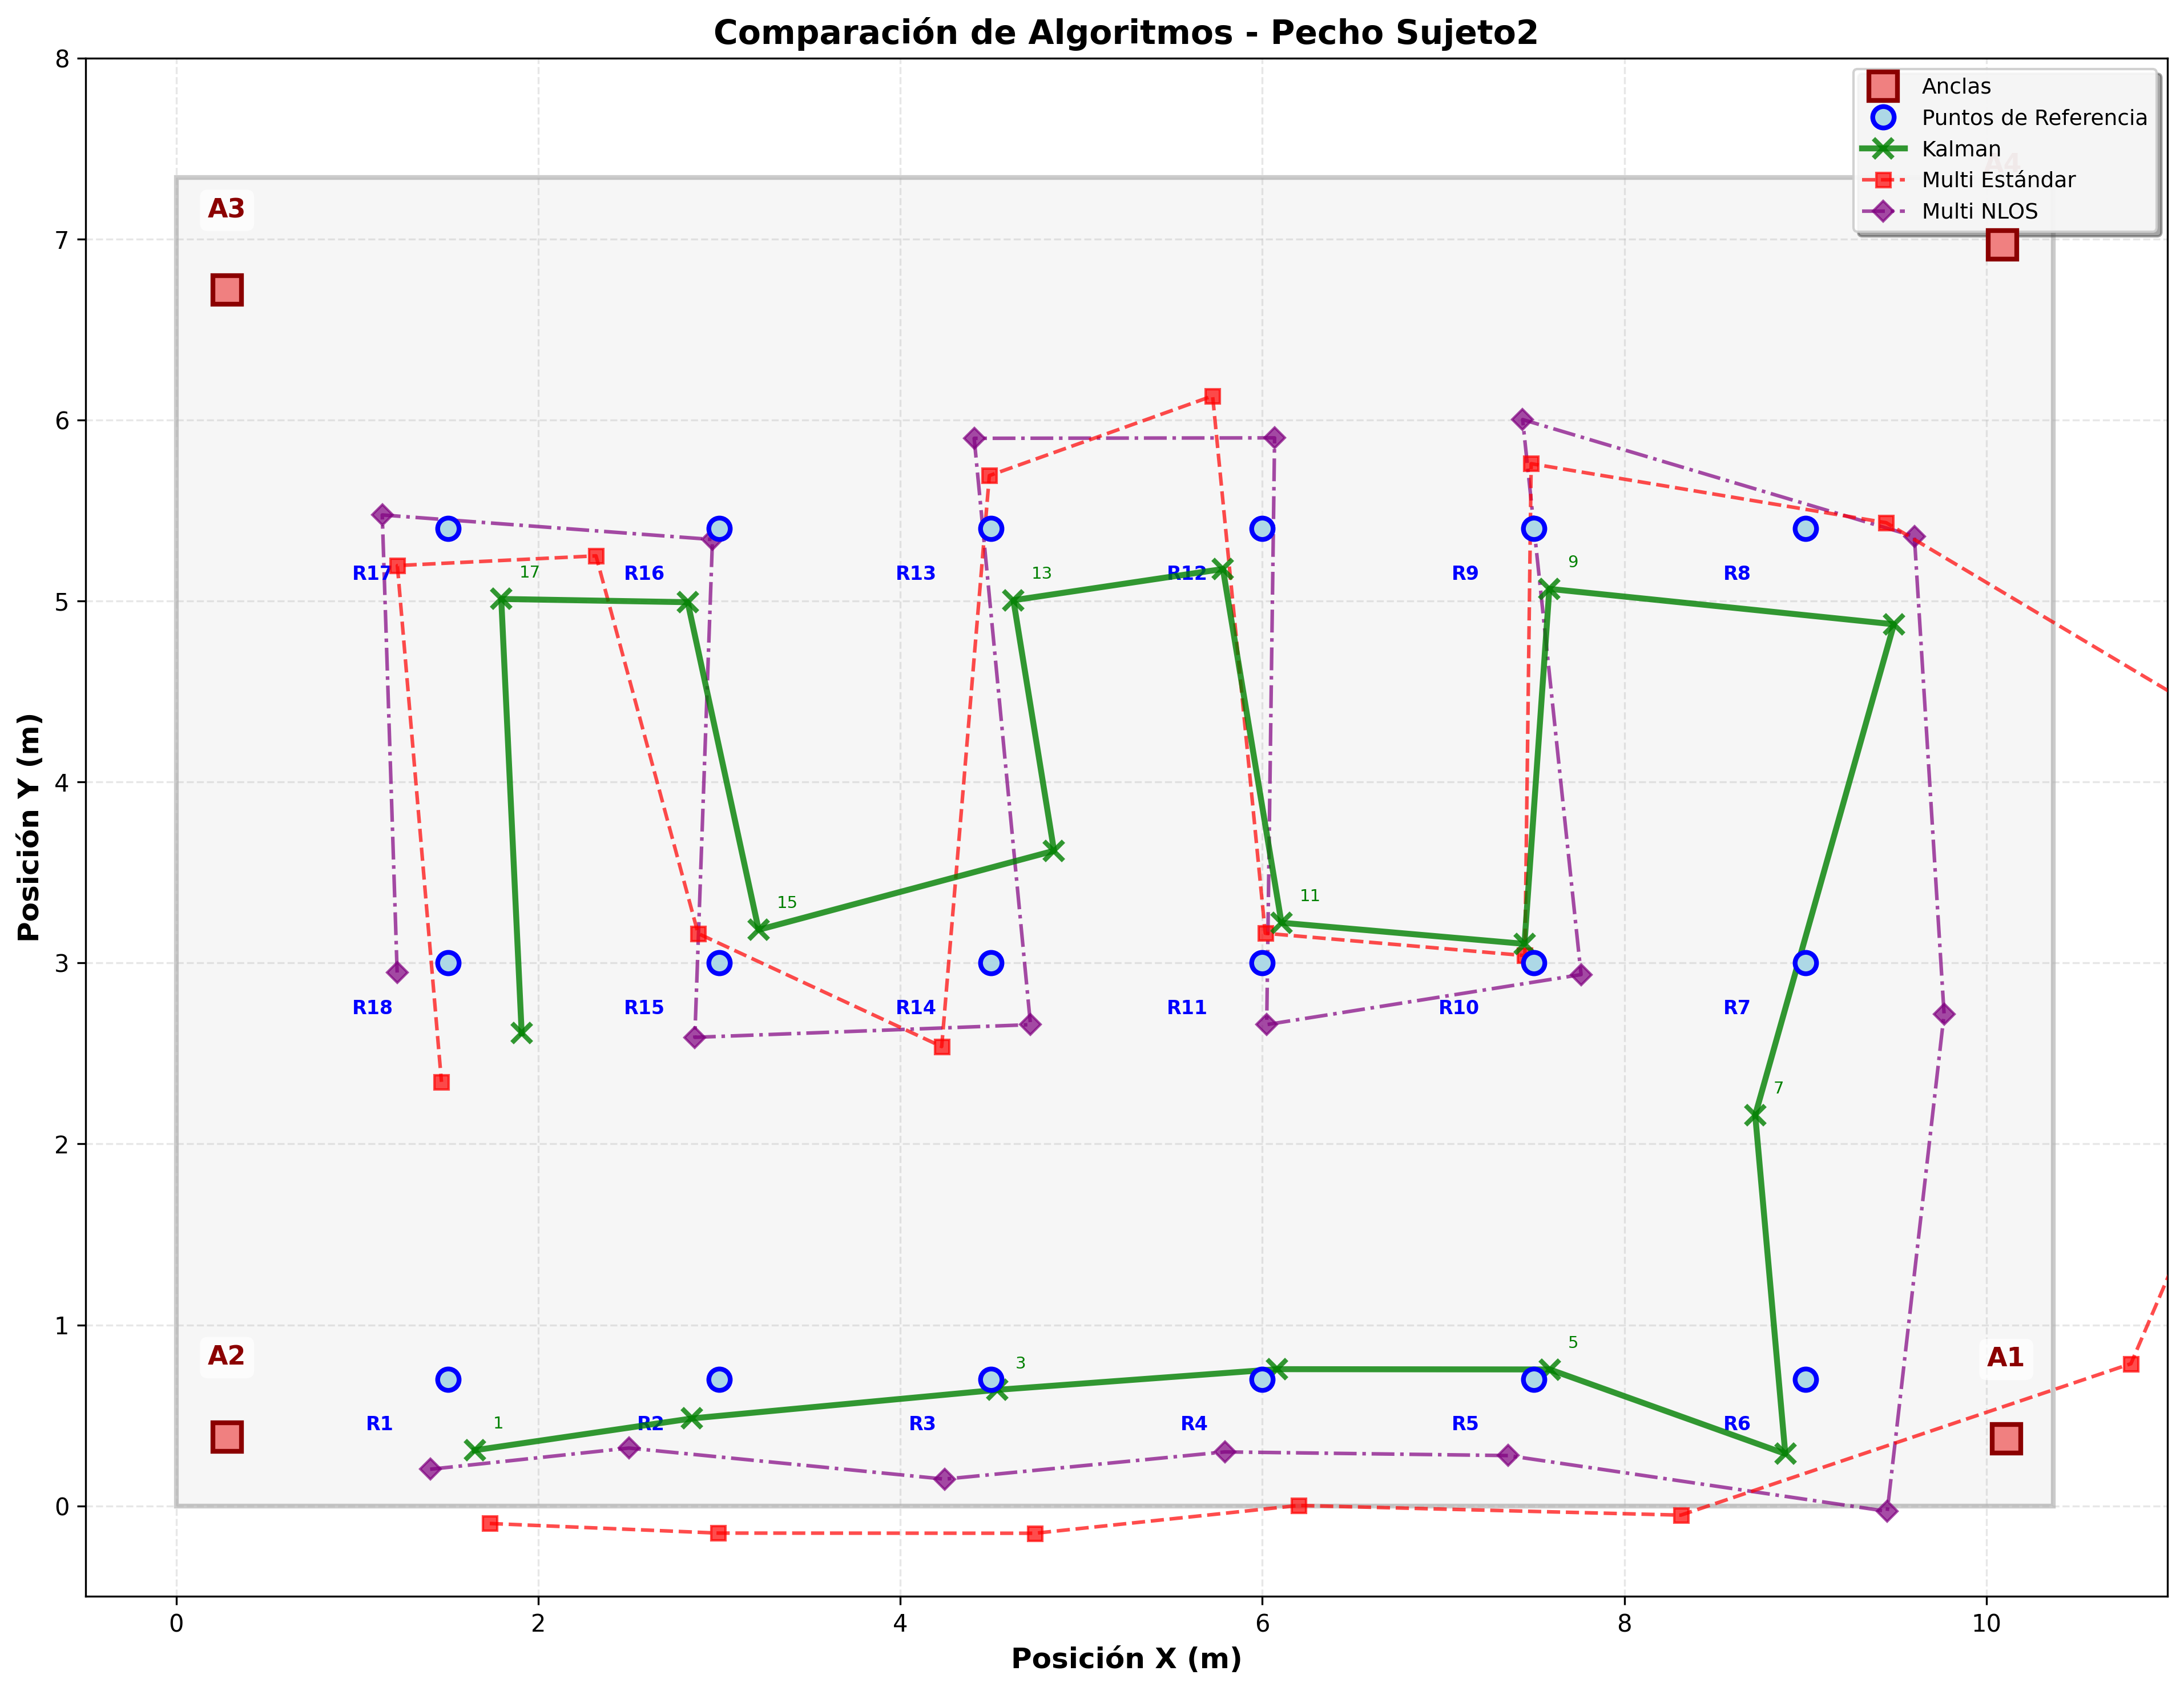
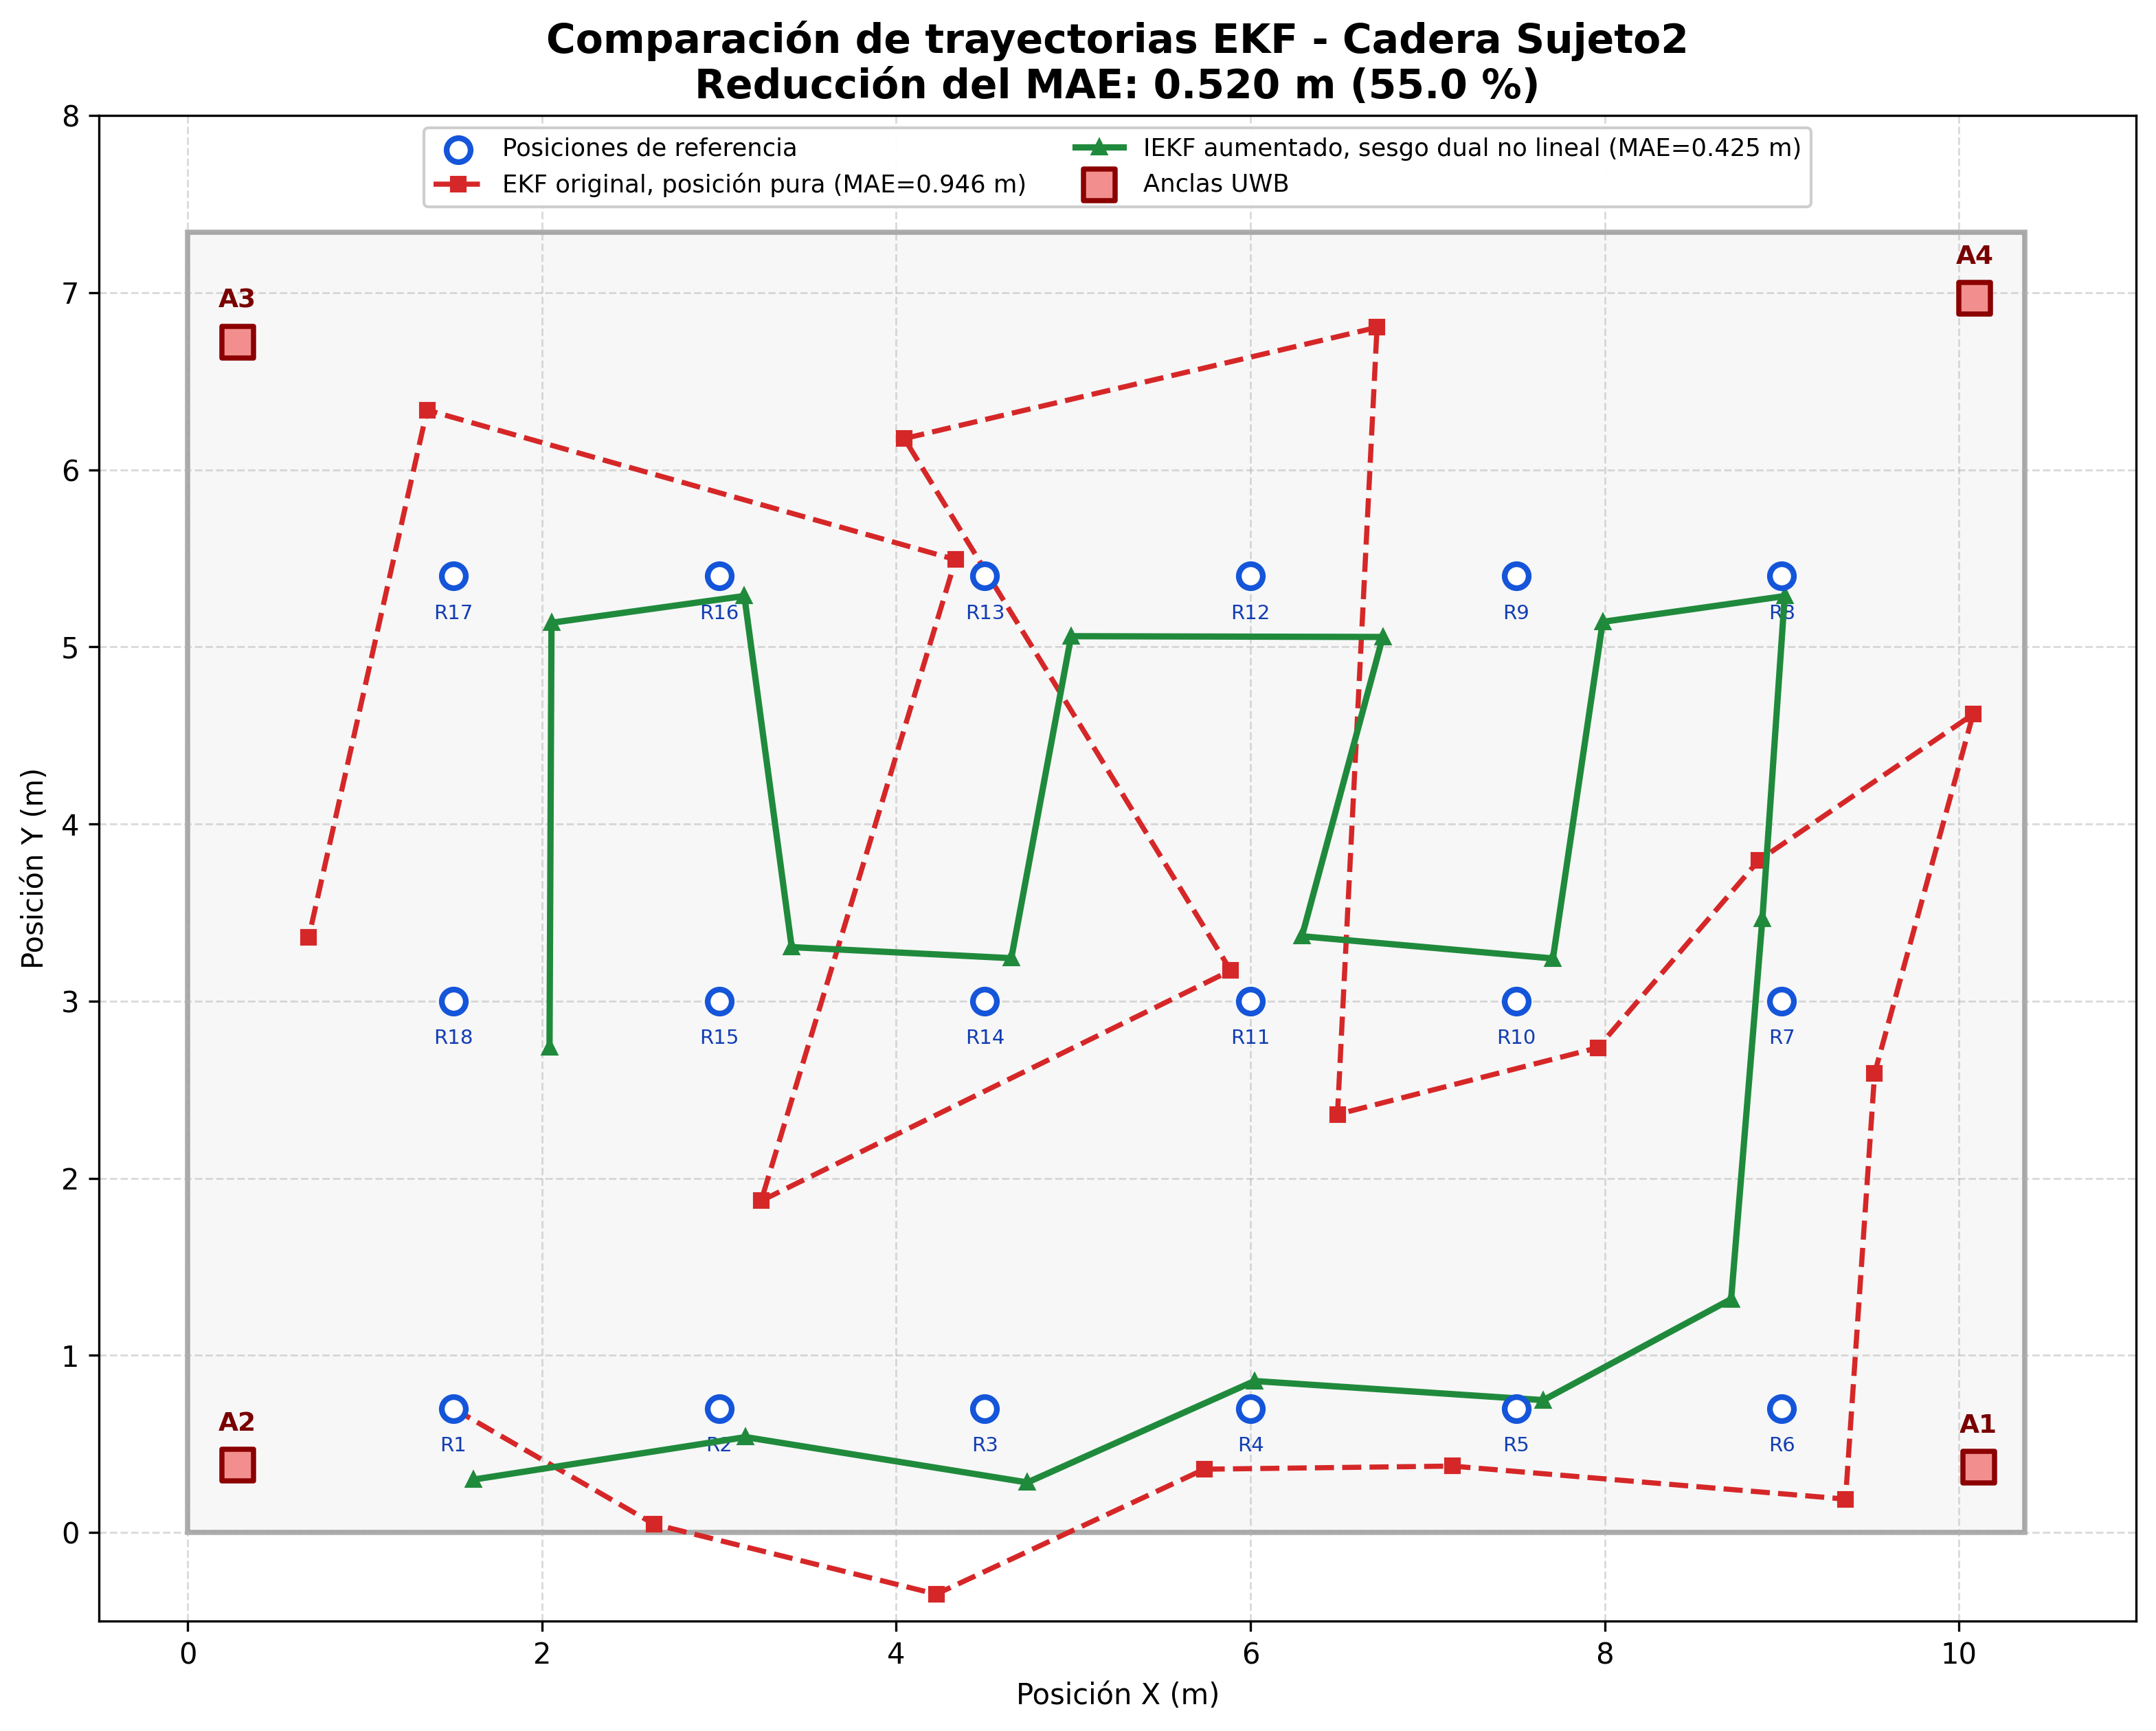
feat: fig of comparations adecuate

diff --git a/capitulos/cap_optimizacion_kalman.tex b/capitulos/cap_optimizacion_kalman.tex
@@ -68,4 +68,15 @@ El análisis de la Figura \ref{fig:comparativa_kalman} evidencia de manera indud
 
 En un contraste notable, el EKF de estado aumentado con modelo de sesgo dual corrige eficientemente el vector de trayectoria reduciendo drásticamente el error estadístico medio. Esta variante no lineal resulta particularmente exitosa, logrando suprimir masivamente la brecha de discrepancia incluso en los vértices del recinto.
 
+Para contrastar el modelo propuesto con una técnica no recursiva diseñada específicamente para condiciones de propagación adversas, la Figura \ref{fig:comparativa_iekf_multi_nlos} presenta las trayectorias obtenidas mediante el IEKF de estado aumentado y la multilateración ponderada NLOS sobre el mismo conjunto de datos correspondiente a la cadera del sujeto 2. Esta comparación permite evaluar si la estimación conjunta de los sesgos conserva un desempeño competitivo frente a un método que asigna pesos reducidos a las mediciones identificadas como NLOS.
+
+\begin{figure}[H]
+    \centering
+    \includegraphics[width=\textwidth]{imagenes/comparacion_iekf_multi_nlos.png}
+    \caption{Comparación de trayectorias entre el IEKF con estado aumentado y la multilateración ponderada NLOS. Escenario de prueba: sensor en la cadera del sujeto 2.}
+    \label{fig:comparativa_iekf_multi_nlos}
+\end{figure}
+
+La Figura \ref{fig:comparativa_iekf_multi_nlos} muestra un desempeño global prácticamente equivalente. El IEKF obtiene un MAE ligeramente menor, i.e., 0.4253 m frente a 0.4264 m, y un error máximo de 0.8224 m frente a 0.8334 m. Por su parte, la multilateración ponderada NLOS presenta una mediana menor, i.e., 0.4210 m frente a 0.4730 m, y una desviación estándar inferior, i.e., 0.1763 m frente a 0.2001 m. Por tanto, no existe un dominio absoluto de un método sobre el otro: el IEKF ofrece una ventaja marginal en exactitud promedio y error extremo, mientras que Multi-NLOS produce una distribución de errores ligeramente más estable.
+
 Al extrapolar este marco matemático de validación hacia la totalidad de los conjuntos de datos que conforman el cuerpo de la experimentación (diferentes sujetos físicos y variaciones anatómicas del sensor), el error general experimentó una contundente mitigación. Estos resultados acreditan unánimemente que la intervención sobre la raíz del modelo estocástico—integrando el comportamiento exponencial del sesgo en función de la distancia—resulta ineludible y fundamental, ya que atiende adecuadamente los impedimentos de hardware y reflexiones de campo cercano en los sistemas físicos de posicionamiento Ultra-Wideband analizados.